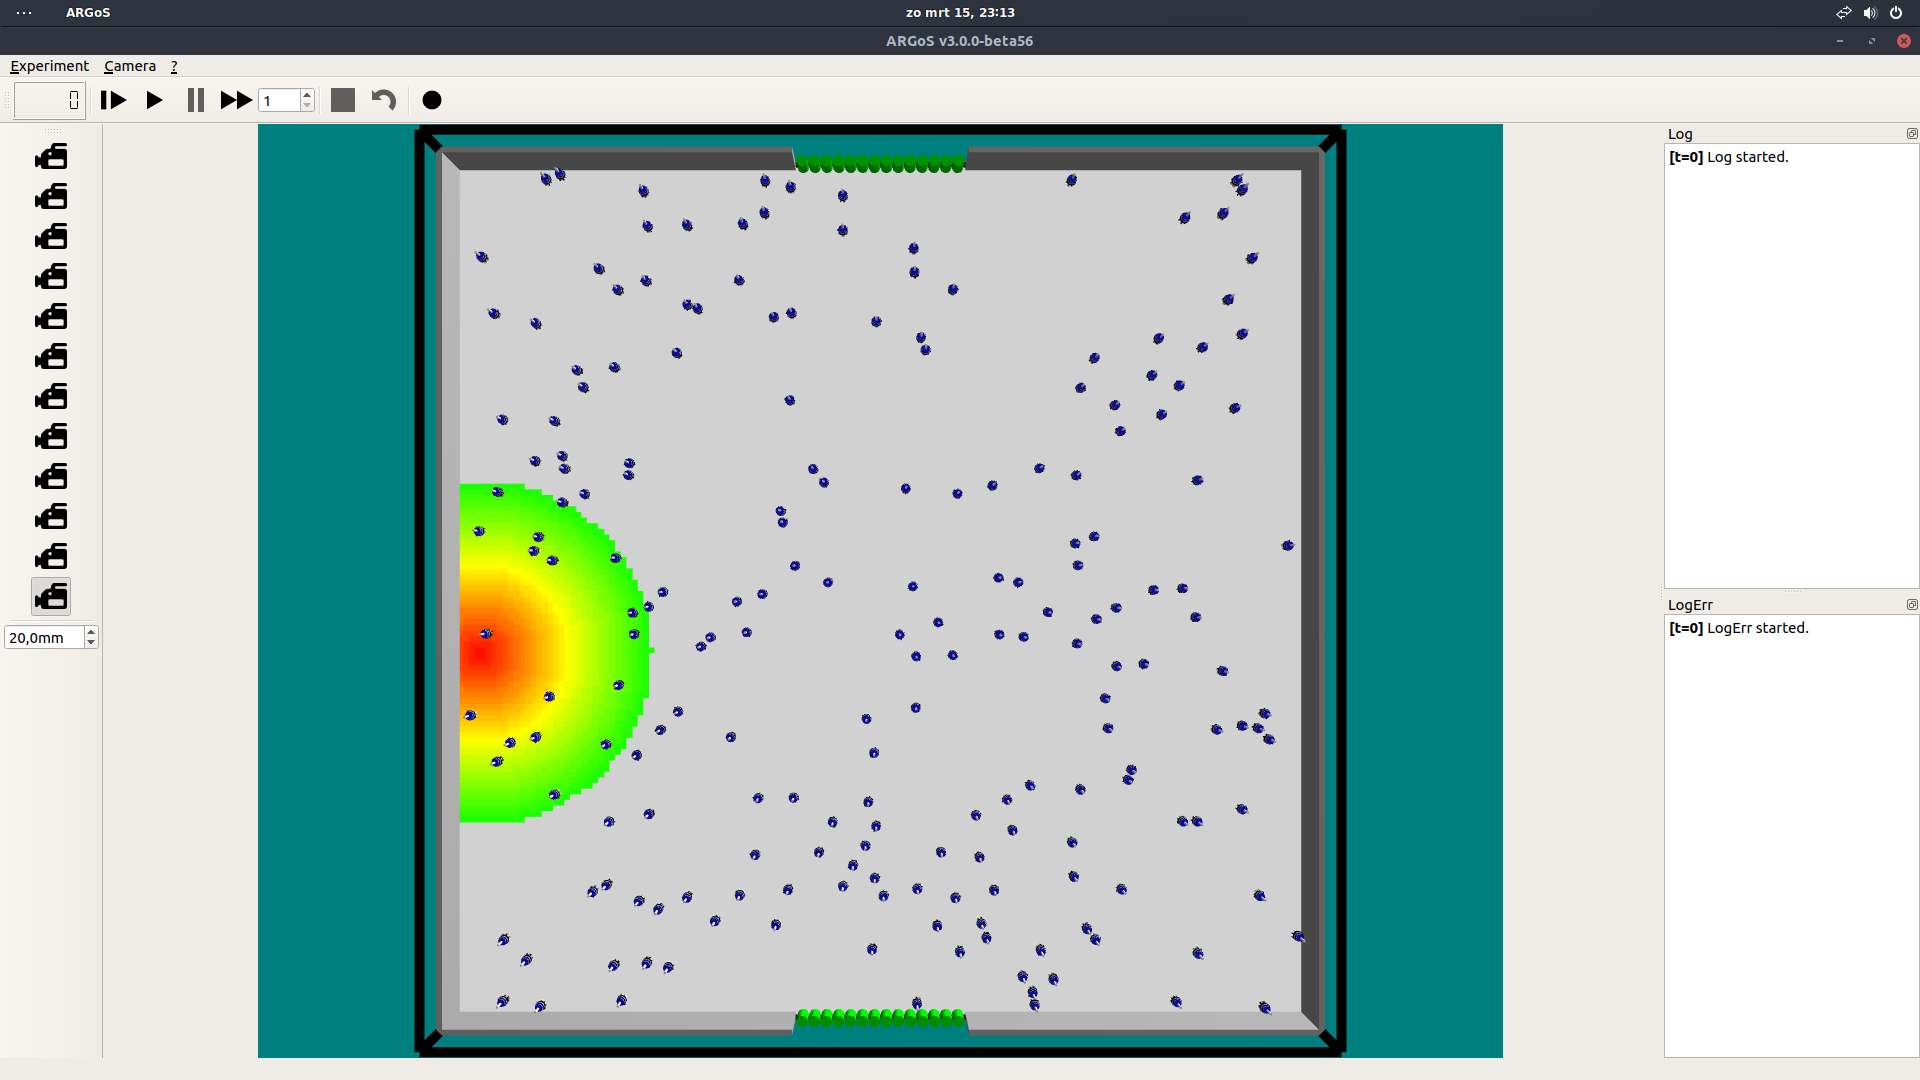
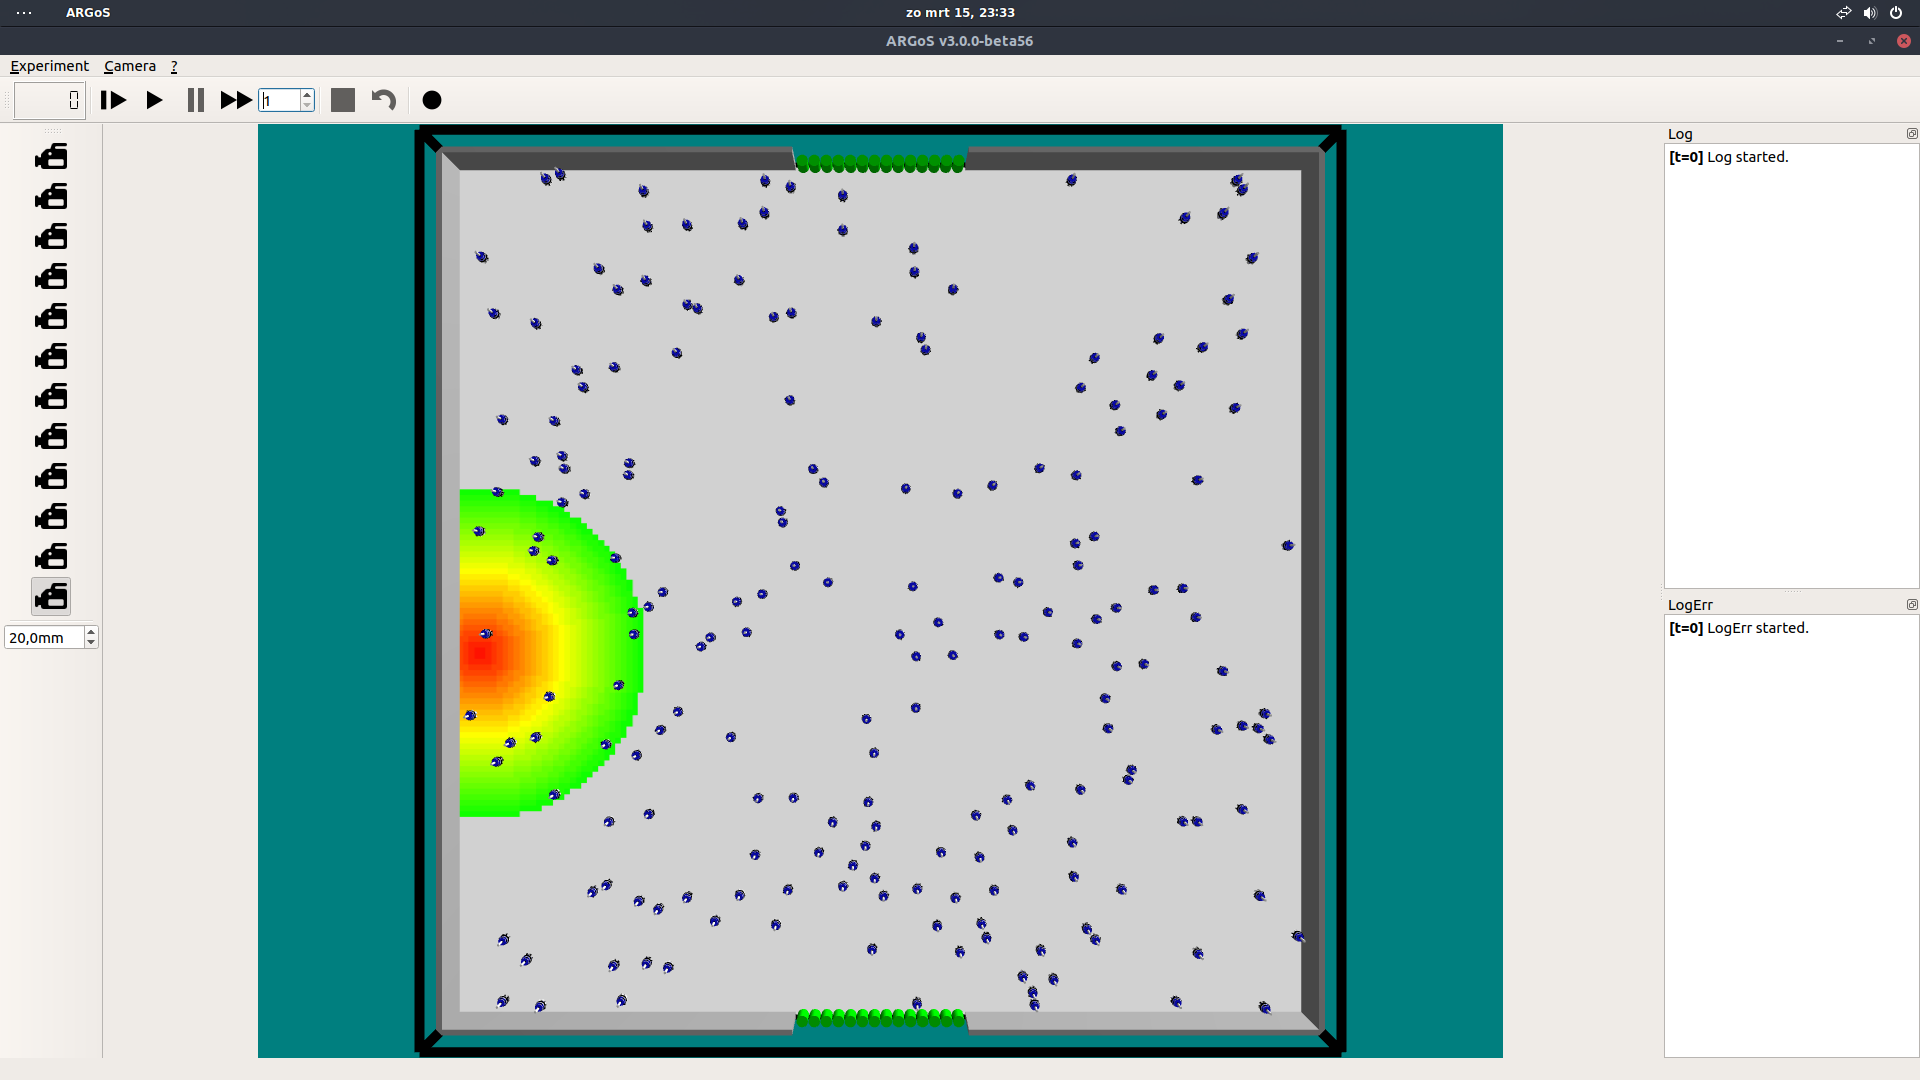
Implement static fire circle

Changed region(s): [[0.2188, 0.4278, 0.3438, 0.7639]]

diff --git a/code/loop_functions/FireEvacuationLoopFunctions.cpp b/code/loop_functions/FireEvacuationLoopFunctions.cpp
@@ -27,32 +27,40 @@ void FireEvacuationLoopFunctions::Init(TConfigurationNode &configurationNode) {
 	floorEntity = &space->GetFloorEntity();
 
 	// Set the size of the heatmap depending on the size of the arena and the resolution depending on the tiles per meter
-	int resolutionX = arenaSize->GetX() * heatMapParams.tilesPerMeter;
-	int resolutionY = arenaSize->GetY() * heatMapParams.tilesPerMeter;
+	Real resolutionX = arenaSize->GetX() * heatMapParams.tilesPerMeter;
+	Real resolutionY = arenaSize->GetY() * heatMapParams.tilesPerMeter;
 	heatMap = vector<vector<int>>(resolutionX, vector<int>(resolutionY));
 
 	// While debugging, initialize the heatmap with predetermined temperatures
 	if(heatMapParams.debugMode != "none") {
 		initHeatMap();
 	}
-	// Otherwise create a fire at a random position
+	// Otherwise create a fire according to the fire mode and according to wether it is dynamic
 	else {
-		// int centerX = random->Uniform(CRange<int>(-resolutionX/2, resolutionX/2));
-		// int centerY = random->Uniform(CRange<int>(-resolutionY/2, resolutionY/2));
+		// Create a circular fire at a random position
+		if(fireParams.mode == "circle") {
+			int centerX = random->Uniform(CRange<int>(-resolutionX/2, resolutionX/2));
+			int centerY = random->Uniform(CRange<int>(-resolutionY/2, resolutionY/2));
 
-		// // Linear gradient
-		// int radiusInmeters = 3;
-		// int radius = radiusInmeters * heatMapParams.tilesPerMeter;
-		// Real spacing = heatMapParams.maxTemperature / radius;
-		// for(int r = 0; r <= radius; r++) {
-		// 	for(int angle = 0; angle < 360; angle++) {
-		// 		Real x = centerX + r * cos(angle);
-		// 		Real y = centerY + r * sin(angle);
-		// 		if(x >= 0 && x < heatMap.size() && y >= 0 && y < heatMap[x].size()) {
-		// 			heatMap[x][y] = heatMapParams.maxTemperature - spacing * r;
-		// 		}
-		// 	}
-		// }
+			// Create a linear gradient when the fire is static
+			if(!fireParams.isDynamic) {
+				Real radius = fireParams.circleRadiusInmeters * heatMapParams.tilesPerMeter;
+				Real spacing = heatMapParams.maxTemperature / radius;
+				for(int r = 0; r <= radius; r++) {
+					for(Real angle = 0; angle < 360; angle++) {
+						Real x = centerX + r * cos(angle);
+						Real y = centerY + r * sin(angle);
+						if(x >= 0 && x < heatMap.size() && y >= 0 && y < heatMap[x].size()) {
+							heatMap[x][y] = heatMapParams.maxTemperature - spacing * r;
+						}
+					}
+				}
+			}
+			// Otherwise create a single tile where the fire should start to spread from
+			else {
+				heatMap[centerX][centerY] = heatMapParams.maxTemperature;
+			}
+		}
 	}
 }
 
@@ -89,36 +97,39 @@ void FireEvacuationLoopFunctions::PreStep() {
 
 CColor FireEvacuationLoopFunctions::GetFloorColor(const CVector2 &positionOnFloor) {
 	// Get the heatmap indices and temperature that belong to this floor position
-	int indexX = (positionOnFloor.GetX() + arenaSize->GetX()/2) * heatMapParams.tilesPerMeter;
-	int indexY = (positionOnFloor.GetY() + arenaSize->GetY()/2) * heatMapParams.tilesPerMeter;
+	Real indexX = (positionOnFloor.GetX() + arenaSize->GetX()/2) * heatMapParams.tilesPerMeter;
+	Real indexY = (positionOnFloor.GetY() + arenaSize->GetY()/2) * heatMapParams.tilesPerMeter;
 	int temperature = MAX_POSSIBLE_TEMPERATURE / heatMapParams.maxTemperature * heatMap[indexX][indexY];
 
-	// If the temperature shouldn't be shown return no temperature, otherwise return a grayscale color depending on the temperature
-	if(!heatMapParams.showTemperature) {
-		temperature = 0;
+	// While debugging, calculate the red, green and blue components of the color
+	if(heatMapParams.debugUseColors) {
+		int red = 0;
+		int green = 0;
+		int blue = 0;
+		if(!heatMapParams.showTemperature || (heatMapParams.debugMode == "none" && temperature == 0)) {
+			red = 209;
+			green = 209;
+			blue = 209;
+		} else {
+			if(temperature < 128) {
+				green = 255;
+				red = temperature*2;
+			} else {
+				red = 255;
+				green = 255 - (temperature*2 - 255);
+			}
+		}
+		return CColor(red, green, blue);
 	}
-
-	// Invert the temperature to make white = no temperature and black = max temperature
-	temperature = MAX_POSSIBLE_TEMPERATURE - temperature;
-	
-	return CColor(temperature, temperature, temperature);
-
-	// Calculate the red, green and blue components of the color	
-	// int red = 0;
-	// int green = 0;
-	// int blue = 0;
-	// if(temperature == 0) {
-	// 	red = 209;
-	// 	green = 209;
-	// 	blue = 209;
-	// } else if(temperature < 128) {
-	// 	green = 255;
-	// 	red = temperature*2;
-	// } else {
-	// 	red = 255;
-	// 	green = 255 - (temperature*2 - 255);
-	// }
-	// return CColor(red, green, blue);
+	// Otherwise invert the temperature to make white = no temperature and black = max temperature and return a grayscale color depending on the temperature
+	else {
+		if(!heatMapParams.showTemperature) {
+			temperature = 209;
+		} else {
+			temperature = MAX_POSSIBLE_TEMPERATURE - temperature;
+		}
+		return CColor(temperature, temperature, temperature);
+	}
 }
 
 void FireEvacuationLoopFunctions::initHeatMap() {

diff --git a/code/loop_functions/HeatMapParams.cpp b/code/loop_functions/HeatMapParams.cpp
@@ -4,14 +4,16 @@ HeatMapParams::HeatMapParams() :
 	// Initialize attributes and set default values
 	tilesPerMeter(10),
 	maxTemperature(MAX_POSSIBLE_TEMPERATURE),
+	showTemperature(true),
 	debugMode("none"),
-	showTemperature(false) {
+	debugUseColors(false) {
 }
 
 void HeatMapParams::setParams(TConfigurationNode &configurationNode) {
 	// Parse the configuration file for params
     GetNodeAttributeOrDefault(configurationNode, "tiles_per_meter", tilesPerMeter, tilesPerMeter);
     GetNodeAttributeOrDefault(configurationNode, "max_temperature", maxTemperature, maxTemperature);
-    GetNodeAttributeOrDefault(configurationNode, "debug_mode", debugMode, debugMode);
     GetNodeAttributeOrDefault(configurationNode, "show_temperature", showTemperature, showTemperature);
+    GetNodeAttributeOrDefault(configurationNode, "debug_mode", debugMode, debugMode);
+    GetNodeAttributeOrDefault(configurationNode, "debug_use_colors", debugUseColors, debugUseColors);
 }

diff --git a/code/loop_functions/FireParams.cpp b/code/loop_functions/FireParams.cpp
@@ -5,7 +5,8 @@ FireParams::FireParams() :
 	mode("circle"),
 	isDynamic(false),
 	dynamicIntervalTicks(50),
-	dynamicTemperatureIncrease(20) {
+	dynamicTemperatureIncrease(20),
+	circleRadiusInmeters(3.0) {
 }
 
 void FireParams::setParams(TConfigurationNode &configurationNode) {
@@ -14,4 +15,5 @@ void FireParams::setParams(TConfigurationNode &configurationNode) {
     GetNodeAttributeOrDefault(configurationNode, "is_dynamic", isDynamic, isDynamic);
     GetNodeAttributeOrDefault(configurationNode, "dynamic_interval_ticks", dynamicIntervalTicks, dynamicIntervalTicks);
     GetNodeAttributeOrDefault(configurationNode, "dynamic_temperature_increase", dynamicTemperatureIncrease, dynamicTemperatureIncrease);
+    GetNodeAttributeOrDefault(configurationNode, "circle_radius_in_meters", circleRadiusInmeters, circleRadiusInmeters);
 }

diff --git a/code/loop_functions/HeatMapParams.h b/code/loop_functions/HeatMapParams.h
@@ -15,8 +15,9 @@ class HeatMapParams {
 		// Params
 		int tilesPerMeter;
 		int maxTemperature;
-		string debugMode;
 		bool showTemperature;
+		string debugMode;
+		bool debugUseColors;
 
 		HeatMapParams();
 

diff --git a/code/loop_functions/FireParams.h b/code/loop_functions/FireParams.h
@@ -14,6 +14,7 @@ class FireParams {
         bool isDynamic;
 		int dynamicIntervalTicks;
 		int dynamicTemperatureIncrease;
+		Real circleRadiusInmeters;
 
 		FireParams();
 

diff --git a/thesis/todo.md b/thesis/todo.md
@@ -3,6 +3,7 @@
 - Use a state machine.
 - Don't forget to reset any variables in the appropriate Reset functions.
 
+- Each fire mode should have its own configuration node, so it's easier to have its own attributes.
 - Fire modes with attribute: single spreading fire in circle, single spreading fire according to model, multiple fires popping up at random time intervals
 - Redrawing the floor is very resource intensive so this shouldn't happen too often.
 - Depending on the readings of the ground sensors of the temperature sensing robots (2 in front, 2 in back) you can determine to where the robot should move. It shouldn't move to a tile that's warmer. If the robot happens to have it's 4 sensors on the same tile, or all sensors return the same temperature, try to move in a random direction and see if eventually the robot ends up on a cooler tile. If there are no cooler tiles around the robot the robot is stuck. This last scenario could happen when in the beginning the robot spawns on a hot tile, but this can be circumvented with a loop function by spawning the fire after a certain amount of time and on a tile that is not occupied by a robot.
